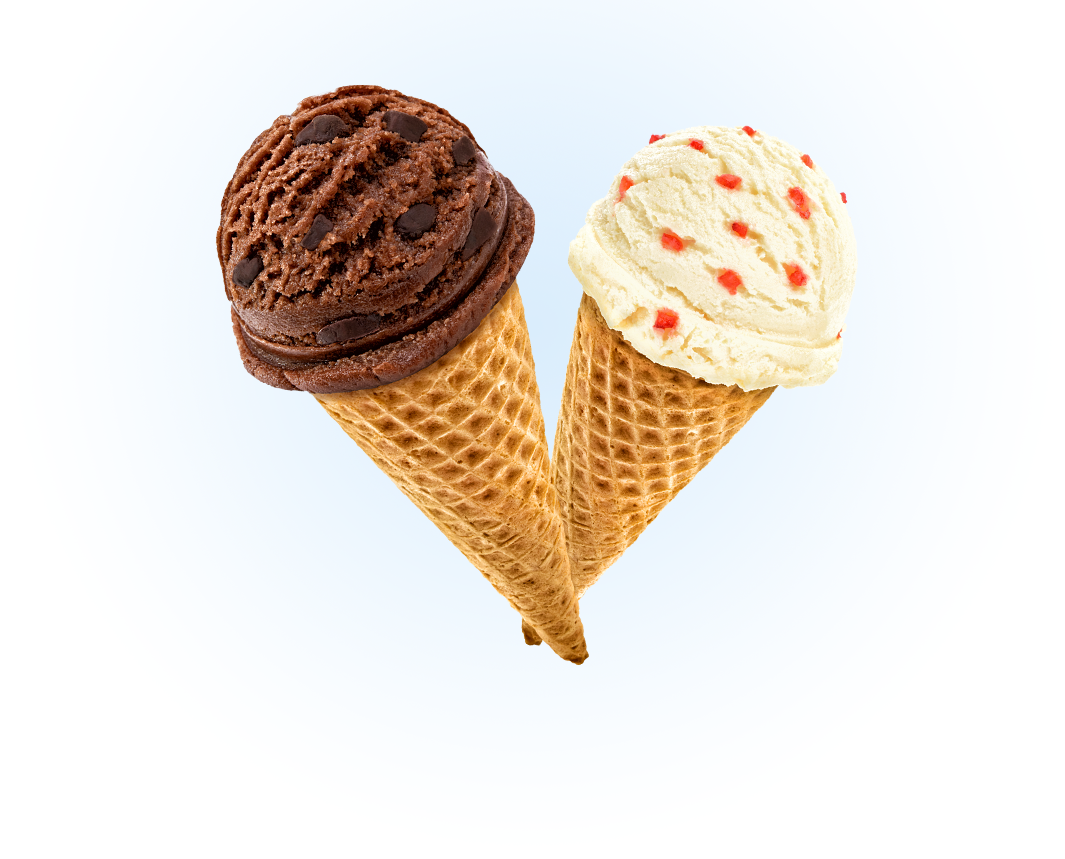
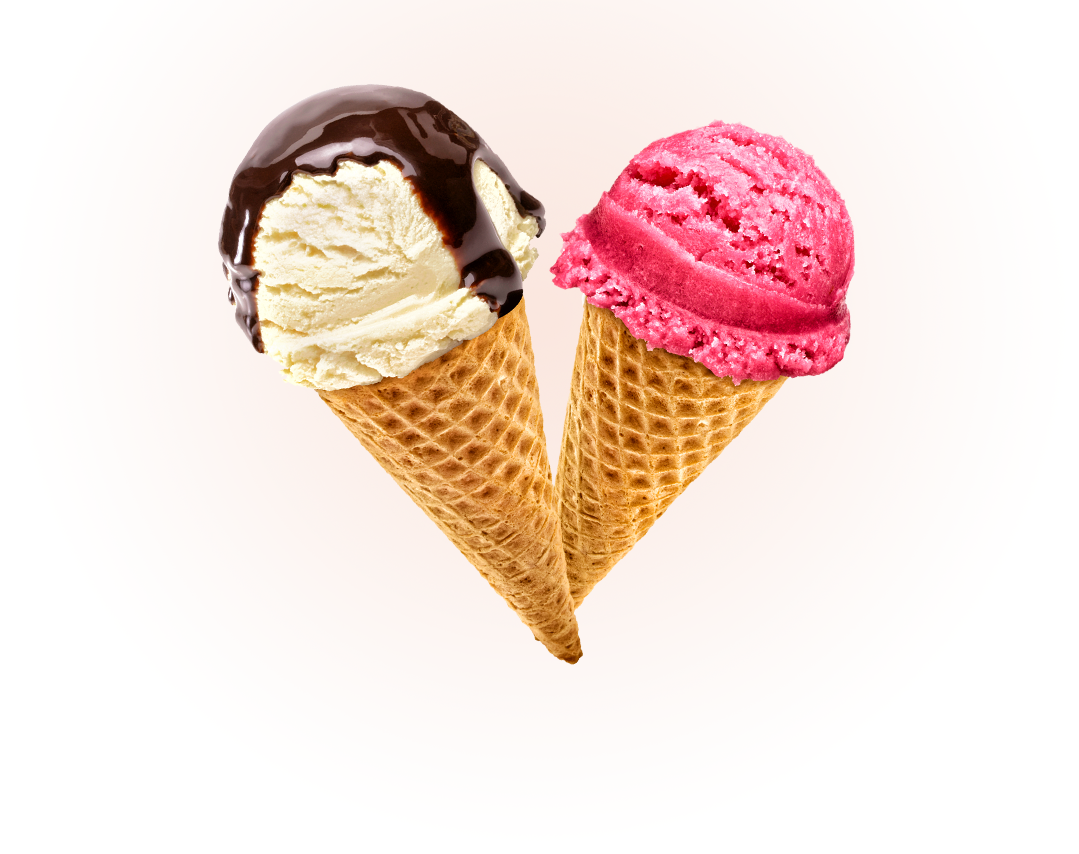
Анимация слайдера

Changed region(s): [[0.1859, 0.0913, 0.8056, 0.7916]]

diff --git a/css/style.css b/css/style.css
@@ -47,7 +47,26 @@ body > input[type="radio"] {
   min-width: 900px;
 
   background: #849d8f url("../img/slide-1.png") no-repeat top center;
+
+  transition: background-image 0.5s ease, background-color 0.5s ease;
 }
+
+.site-wrapper:before,
+.site-wrapper:after {
+  content: "";
+
+  visibility: hidden;
+}
+
+.site-wrapper:before,
+.site-wrapper:after {
+  background-image: url("../img/slide-1.png");
+}
+
+.site-wrapper:after {
+  background-image: url("../img/slide-2.png");
+}
+
 
 .content-wrapper {
   margin: 0 auto;
